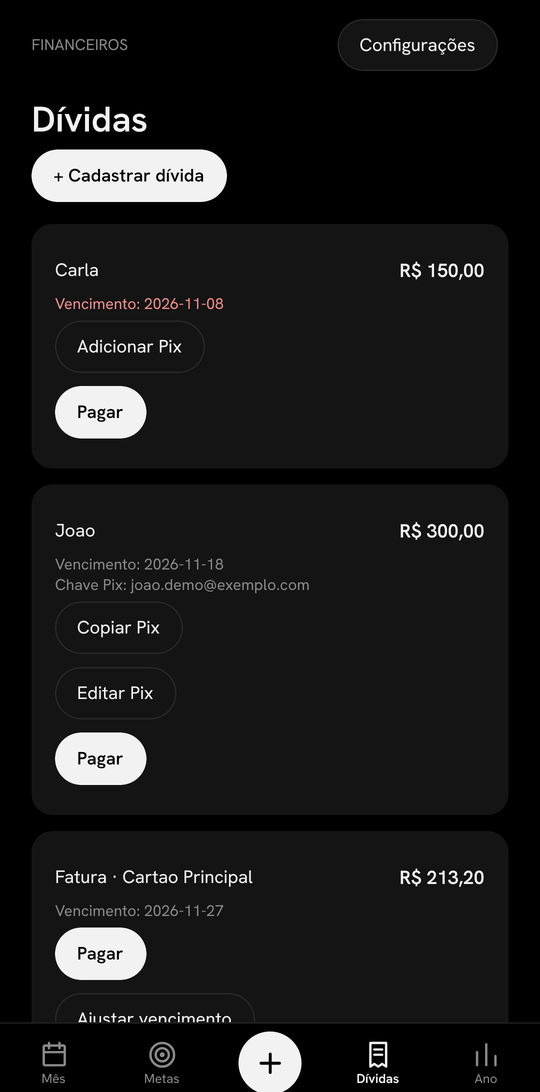
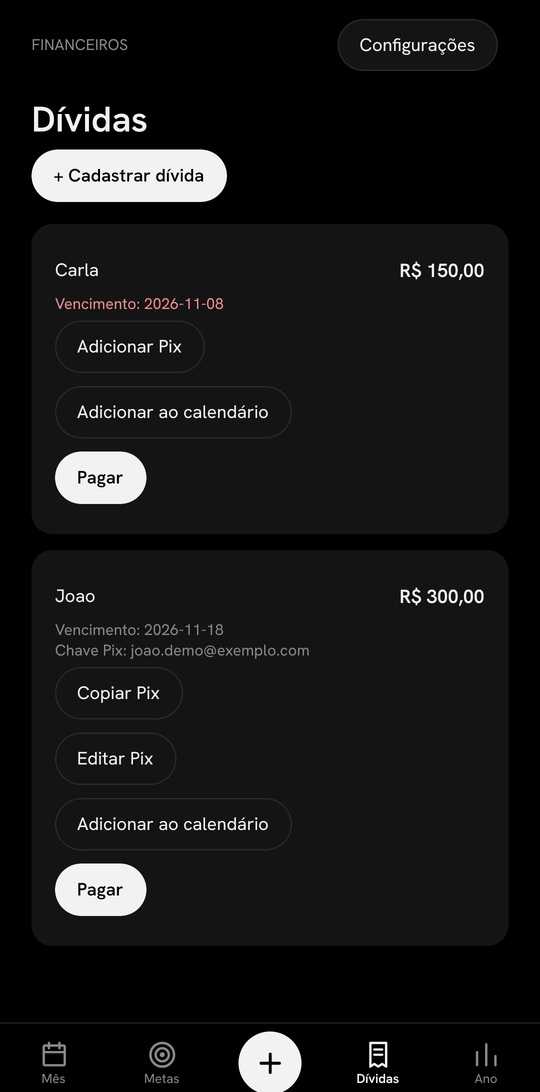
feat: confirmar lembretes no primeiro acesso e adicionar vencimentos ao calendário
- Tela "Receber lembretes?" no primeiro acesso, com a escolha guardada
- Botão "Adicionar ao calendário" em dívidas e faturas, usando a tela de novo
  evento do sistema (sem permissão de agenda; permissões bloqueadas no Android)
- Testes do evento de calendário e novos prints no README

diff --git a/src/FinanceApp.tsx b/src/FinanceApp.tsx
@@ -28,6 +28,8 @@ import SecurityScreen from './SecurityScreen';
 import {parseMoney} from './onboarding';
 import {budgetMargin,freeToSpend} from './finance';
 import CardSetup from './CardSetup';
+import NotificationsPromptScreen from './NotificationsPromptScreen';
+import {addDueToCalendar} from './calendar';
 import LegacyCreditScreen, {type LegacyCredit} from './LegacyCreditScreen';
 import {setStatementDue,type CardRow} from './cards';
 import {cashSpend,goalExtraSql,goalSpentSql} from './accounting';
@@ -54,7 +56,7 @@ function Row({name,value,color=fg,flat=false}:{name:string;value:string;color?:s
 export default function FinanceApp({db}:{db:SQLiteDatabase}) {
   const [securityMode,setSecurityMode]=useState(false); const [accessibilityMode,setAccessibilityMode]=useState(false); const [investmentsMode,setInvestmentsMode]=useState(false); const [infoMode,setInfoMode]=useState<'guia'|'sobre'|null>(null); const [recurringMode,setRecurringMode]=useState(false); const [goalMovement,setGoalMovement]=useState<Goal|null>(null); const [goalMode,setGoalMode]=useState(false); const [settingsMode,setSettingsMode]=useState(false); const [insightsMode,setInsightsMode]=useState(false); const [cashMode,setCashMode]=useState(false); const [commitmentsMode,setCommitmentsMode]=useState(false); const [editingTransaction,setEditingTransaction]=useState<Entry|null>(null);
   const [statementMonth,setStatementMonth]=useState<string|null>(null);
-  const [cards,setCards]=useState<CardRow[]>([]); const [cardSetup,setCardSetup]=useState<boolean|undefined>(); const [editingCards,setEditingCards]=useState(false); const [selectedCard,setSelectedCard]=useState<number|null>(null); const [installments,setInstallments]=useState('1');
+  const [cards,setCards]=useState<CardRow[]>([]); const [cardSetup,setCardSetup]=useState<boolean|undefined>(); const [editingCards,setEditingCards]=useState(false); const [selectedCard,setSelectedCard]=useState<number|null>(null); const [installments,setInstallments]=useState('1'); const [notifAsked,setNotifAsked]=useState<boolean|undefined>();
   const [legacy,setLegacy]=useState<LegacyCredit[]>([]); const [deferLegacy,setDeferLegacy]=useState(false); const [rolloverBlocked,setRolloverBlocked]=useState(false); const [spend,setSpend]=useState({direct:0,bills:0,billGoals:0});
   const [editingPix,setEditingPix]=useState<Debt|null>(null); const [editingPixValue,setEditingPixValue]=useState(''); const [editingDue,setEditingDue]=useState<Debt|null>(null); const [dueInput,setDueInput]=useState('');
   const [profileName,setProfileName]=useState<string|null|undefined>(undefined); const [editingName,setEditingName]=useState(false);
@@ -75,6 +77,7 @@ export default function FinanceApp({db}:{db:SQLiteDatabase}) {
       const profile=await db.getFirstAsync<{value:string}>("SELECT value FROM settings WHERE key='user_name'");setProfileName(profile?.value.trim()||null);
       const cardRows=await db.getAllAsync<CardRow>('SELECT * FROM cards WHERE active=1 ORDER BY id');setCards(cardRows);
       const cardFlag=await db.getFirstAsync<{value:string}>("SELECT value FROM settings WHERE key='card_setup_complete'");setCardSetup(cardFlag?.value==='1');
+      const asked=await db.getFirstAsync<{value:string}>("SELECT value FROM settings WHERE key='notifications_prompted'");setNotifAsked(!!asked||(await Notifications.getPermissionsAsync()).granted);
       const unresolved=await db.getAllAsync<LegacyCredit>("SELECT t.id,t.name,t.amount,t.date FROM transactions t WHERE t.type='expense' AND t.payment='Crédito' AND NOT EXISTS(SELECT 1 FROM credit_charges c WHERE c.transaction_id=t.id) ORDER BY t.date,t.id");setLegacy(unresolved);
       if(cardFlag?.value!=='1' || (unresolved.length>0&&!deferLegacy)) return;
       let fallback=current;
@@ -132,8 +135,9 @@ export default function FinanceApp({db}:{db:SQLiteDatabase}) {
   function pay(debt:Debt) {reset();setPaying(debt);setAmount((debt.amount/100).toFixed(2).replace('.',','));setName(debt.name);setMode('gasto');setTab('+');}
   const fixed=entries.filter(e=>e.type==='fixed').reduce((s,e)=>s+e.amount,0); const planned=goals.reduce((s,g)=>s+g.allocated,0); const extra=entries.filter(e=>e.type==='extra').reduce((s,e)=>s+e.amount,0); const expenses=entries.filter(e=>e.type!=='extra'&&!e.is_bill_payment).reduce((s,e)=>s+e.amount,0); const freeExtra=entries.filter(e=>e.type==='extra'&&e.envelope_id===null).reduce((sum,e)=>sum+e.amount,0); const balance=budgetMargin(month?.income??0,fixed,planned,freeExtra); const overdue=debts.filter(d=>d.due<localDate()); const billDue=debts.filter(d=>d.statement_id!==null&&d.due.slice(0,7)===month?.id).reduce((sum,d)=>sum+d.amount,0); const deficit=goals.reduce((sum,g)=>sum+Math.max(0,g.spent-g.allocated-g.carried-g.extra),0); const available=freeToSpend(month?.income??0,fixed,planned,freeExtra,spend.direct,spend.bills,spend.billGoals,deficit);
   const days=Array.from({length:31},(_,i)=>entries.filter(e=>e.type!=='extra'&&!e.is_bill_payment&&Number(e.date.slice(8))===i+1).reduce((s,e)=>s+e.amount,0)); const extraDays=Array.from({length:31},(_,i)=>entries.filter(e=>e.type==='extra'&&Number(e.date.slice(8))===i+1).reduce((s,e)=>s+e.amount,0)); let total=0,extraTotal=0; const cumulative=days.map(v=>total+=v),extraCumulative=extraDays.map(v=>extraTotal+=v); const maximum=Math.max(1,...cumulative,...extraCumulative); const points=cumulative.map((v,i)=>`${i*10},${95-(v/maximum)*85}`).join(' '); const extraPoints=extraCumulative.map((v,i)=>`${i*10},${95-(v/maximum)*85}`).join(' ');
-  if (profileName===undefined || cardSetup===undefined) return <View style={{flex:1,backgroundColor:'#000'}}/>;
+  if (profileName===undefined || cardSetup===undefined || notifAsked===undefined) return <View style={{flex:1,backgroundColor:'#000'}}/>;
   if (profileName===null || editingName) return <NameScreen db={db} initialName={profileName??undefined} onComplete={value=>{setProfileName(value);setEditingName(false)}} onCancel={profileName?()=>setEditingName(false):undefined}/>;
+  if (!notifAsked) return <NotificationsPromptScreen db={db} onDone={()=>{setNotifAsked(true);void refresh()}}/>;
   if (editingCards || !cardSetup) return <CardSetup db={db} existing={editingCards?cards:undefined} onComplete={()=>{setCardSetup(true);setEditingCards(false);void refresh()}} onCancel={editingCards?()=>setEditingCards(false):undefined}/>;
   if (legacy.length>0 && !deferLegacy) return <LegacyCreditScreen db={db} items={legacy} cards={cards} onChanged={()=>void refresh()} onCards={()=>setEditingCards(true)} onLater={()=>setDeferLegacy(true)}/>;
   if (backupMode) return <BackupScreen db={db} exportOnly={backupFromClose} onClose={()=>{setBackupMode(false);setBackupFromClose(false)}} onRestored={()=>{setBackupMode(false);setBackupFromClose(false);void refresh()}}/>;
@@ -161,7 +165,7 @@ export default function FinanceApp({db}:{db:SQLiteDatabase}) {
     {legacy.length>0&&<View><Label color={red}>Revise compras antigas no crédito para calcular os valores corretamente{rolloverBlocked?' e concluir a virada do mês':''}.</Label><Button title="Revisar compras" onPress={()=>setDeferLegacy(false)}/></View>}
     {tab==='Mês' && <><Label size={30}>{profileName?`Olá, ${profileName}`:'Seu mês'}</Label><Button title="Editar salário deste mês" onPress={()=>{if(month?.closed_at){Alert.alert('Este mês está fechado.');return;} setSalary(((month?.income??0)/100).toFixed(2).replace('.',','));setSalaryMode(true)}}/><Label color={muted}>{month?.id??'Carregando…'}</Label><ScrollView horizontal showsHorizontalScrollIndicator={false}>{monthOptions.map(item=><Button key={item} title={item} selected={item===month?.id} onPress={()=>setSelectedMonth(item)}/>)}</ScrollView>{overdue.length>0&&<View style={{marginTop:20}}><Label color={red}>{overdue.length} dívida(s) em atraso</Label></View>}<View style={{marginTop:35}}><Label color={muted} size={13}>MARGEM PARA IMPREVISTOS</Label><Label color={balance<0?red:green} size={36}>{cash(balance)}</Label></View><Svg width="100%" height={110} viewBox="0 0 300 110" accessibilityLabel="Gráfico de gastos acumulados no mês"><Polyline points={points} fill="none" stroke={fg} strokeWidth="2" strokeLinejoin="round" strokeLinecap="round"/>{extra>0&&<Polyline points={extraPoints} fill="none" stroke={green} strokeWidth="2" strokeLinejoin="round" strokeLinecap="round"/>}</Svg><Label color={muted} size={12}>Gastos acumulados no mês{extra>0?' · linha verde: entradas extras':''}</Label><Row name="Salário previsto" value={cash(month?.income??0)}/><Row name="Salário recebido" value={actualIncome===null?'Não informado':cash(actualIncome)}/><Row name="Despesas fixas" value={cash(fixed)}/><Row name="Caixinhas" value={cash(planned)}/><Row name="Compras e fixas previstas" value={cash(expenses)}/><Row name="Fatura a pagar neste mês" value={cash(billDue)}/><Button title="Contas e salário" onPress={()=>setCommitmentsMode(true)}/><Button title="Despesas recorrentes" onPress={()=>setRecurringMode(true)}/><Button title="Saldo e compromissos" onPress={()=>setCashMode(true)}/><Button title="Análise financeira" onPress={()=>setInsightsMode(true)}/><Row name="Orçamento livre estimado" value={legacy.length?'—':cash(available)}/><Label color={muted} size={13}>Estimativa do plano mensal; não é saldo bancário e não desconta faturas ou dívidas ainda não pagas.</Label><Row name="Entradas extras" value={cash(extra)} color={green}/><Button title={month?.closed_at?'Mês fechado':'Fechar mês'} onPress={()=>{if(!month||month.closed_at)return;Alert.alert('Fechar mês?','Os lançamentos deste mês ficarão somente para leitura.',[{text:'Cancelar',style:'cancel'},{text:'Fechar',onPress:()=>{void closeMonth(db,month.id,localDate()).then(refresh).catch(error=>Alert.alert('Não foi possível fechar',error.message));}}])}}/><View style={{marginTop:25}}><Label size={21}>Lançamentos</Label><Button title="Compartilhar extrato" onPress={()=>{if(month)setStatementMonth(month.id)}}/></View>{entries.map(e=><Pressable key={e.id} accessibilityRole="button" onPress={()=>{if(month?.closed_at){Alert.alert('Mês fechado','Este lançamento pertence a um mês somente para leitura.');return;}if(e.is_bill_payment){Alert.alert('Pagamento vinculado','Este lançamento exige uma correção específica.');return;}setEditingTransaction(e)}}><Row name={`${e.is_bill_payment?'Pagamento · ':''}${e.name||'Entrada extra'}${e.payment==='Crédito'?' · Crédito':''} · ${e.date}`} value={`${e.type==='extra'?'+':'−'} ${cash(e.amount)}`} color={e.type==='extra'?green:fg}/></Pressable> )}</>}
     {tab==='Metas' && <><Label size={30}>Metas</Label><Label color={muted}>Acompanhamento das suas caixinhas</Label><Button title="Investimentos e bens" onPress={()=>setInvestmentsMode(true)}/><Button primary title="+ Cadastrar meta" onPress={()=>{if(!month||month.closed_at){Alert.alert('Selecione um mês aberto.');return;}setGoalMode(true)}}/>{goals.length===0&&<View style={{marginTop:25}}><Label color={muted}>Nenhuma meta cadastrada.</Label></View>}{goals.map(g=>{const saved=g.allocated+g.carried+g.extra-g.spent;return <View key={g.id} style={{backgroundColor:surface,borderRadius:16,padding:18,marginTop:12}}><Label size={19}>{g.name}</Label><View style={{height:8}}/><Label color={muted}>Planejado: {cash(saved)}</Label><Label>{g.actual===null?'Saldo real não informado':`Registrado: ${cash(g.actual)}${g.target!==null?` de ${cash(g.target)}`:''}`}</Label>{g.actual!==null&&g.target!==null&&g.actual<g.target&&g.allocated>0&&<Label color={muted} size={13}>Estimativa: {Math.ceil((g.target-g.actual)/g.allocated)} mês(es) com os aportes planejados.</Label>}<Button title="Movimentar meta" onPress={()=>{if(!month||month.closed_at||month.id!==localDate().slice(0,7)){Alert.alert('Selecione o mês atual aberto.');return;}setGoalMovement(g)}}/>{!!g.due_date&&<Label color={muted} size={13}>Data final: {g.due_date.split('-').reverse().join('/')}</Label>}{g.target!==null&&g.actual!==null&&g.actual>=g.target&&<View style={{marginTop:12}}><Label>Meta concluída.</Label>{g.name.toLocaleLowerCase('pt-BR').includes('monitor')&&goals.some(item=>item.name.toLocaleLowerCase('pt-BR').includes('reserva'))&&<Label color={muted} size={13}>Sugestão: considere redirecionar {cash(g.allocated)} por mês para a reserva no planejamento futuro.</Label>}</View>}{g.target!==null&&g.actual!==null&&<View accessibilityLabel={`Progresso da meta ${g.name}`} style={{height:6,borderRadius:3,overflow:'hidden',backgroundColor:'#2a2a2a',marginTop:14}}><View style={{height:6,borderRadius:3,backgroundColor:green,width:`${Math.max(0,Math.min(100,g.actual/g.target*100))}%`}}/></View>}</View>})}</>}
-    {tab==='Devo' && <><Label size={30}>Dívidas</Label><Button primary title="+ Cadastrar dívida" onPress={()=>{reset();setDate('');setMode('divida');setTab('+')}}/>{debts.length===0&&<Label color={muted}>Nenhuma dívida em aberto.</Label>}{debts.map(d=><View key={d.id} style={{backgroundColor:surface,borderRadius:16,padding:18,marginTop:12}}><Row flat name={d.name} value={cash(d.amount)}/><Label color={d.due<localDate()?red:muted} size={13}>Vencimento: {d.due}</Label>{!!d.pix_key&&<View><Label color={muted} size={13}>Chave Pix: {d.pix_key}</Label><Button title="Copiar Pix" onPress={()=>{void Clipboard.setStringAsync(d.pix_key!).then(()=>Alert.alert('Chave Pix copiada')).catch(()=>Alert.alert('Não foi possível copiar'))}}/></View>}{d.statement_id===null&&<Button title={d.pix_key?"Editar Pix":"Adicionar Pix"} onPress={()=>{setEditingPix(d);setEditingPixValue(d.pix_key??'')}}/>}<Button primary title="Pagar" onPress={()=>pay(d)}/>{d.statement_id!==null&&<Button title="Ajustar vencimento" onPress={()=>{setEditingDue(d);setDueInput(d.due)}}/>}</View>)}</>}
+    {tab==='Devo' && <><Label size={30}>Dívidas</Label><Button primary title="+ Cadastrar dívida" onPress={()=>{reset();setDate('');setMode('divida');setTab('+')}}/>{debts.length===0&&<Label color={muted}>Nenhuma dívida em aberto.</Label>}{debts.map(d=><View key={d.id} style={{backgroundColor:surface,borderRadius:16,padding:18,marginTop:12}}><Row flat name={d.name} value={cash(d.amount)}/><Label color={d.due<localDate()?red:muted} size={13}>Vencimento: {d.due}</Label>{!!d.pix_key&&<View><Label color={muted} size={13}>Chave Pix: {d.pix_key}</Label><Button title="Copiar Pix" onPress={()=>{void Clipboard.setStringAsync(d.pix_key!).then(()=>Alert.alert('Chave Pix copiada')).catch(()=>Alert.alert('Não foi possível copiar'))}}/></View>}{d.statement_id===null&&<Button title={d.pix_key?"Editar Pix":"Adicionar Pix"} onPress={()=>{setEditingPix(d);setEditingPixValue(d.pix_key??'')}}/>}<Button title="Adicionar ao calendário" onPress={()=>{void addDueToCalendar({name:d.name,amount:d.amount,due:d.due,noticeDays:d.notice_days},showDetails).catch(()=>Alert.alert('Não foi possível abrir o calendário','Confira se há um aplicativo de calendário instalado.'))}}/><Button primary title="Pagar" onPress={()=>pay(d)}/>{d.statement_id!==null&&<Button title="Ajustar vencimento" onPress={()=>{setEditingDue(d);setDueInput(d.due)}}/>}</View>)}</>}
     {tab==='Ano' && <><Label size={30}>Ano</Label><ActualYear db={db} year={Number(localDate().slice(0,4))}/>{currentYear&&<AnnualSummary year={Number(localDate().slice(0,4))} data={currentYear}/>}{annual.length===0&&<View style={{marginTop:24}}><Label color={muted}>Os resumos de anos anteriores serão exibidos aqui.</Label></View>}{annual.map(a=><AnnualSummary key={a.year} year={a.year} data={a.data}/>)}</>}
     {tab==='+' && <><Label size={30}>{paying?'Pagar dívida':'Novo lançamento'}</Label>{!paying&&<View style={{flexDirection:'row',flexWrap:'wrap'}}><Button title="Gasto" selected={mode==='gasto'} onPress={()=>{reset();setMode('gasto')}}/><Button title="Entrada extra" selected={mode==='entrada'} onPress={()=>{reset();setMode('entrada')}}/><Button title="Dívida" selected={mode==='divida'} onPress={()=>{reset();setDate('');setMode('divida')}}/></View>}{paying?.statement_id!=null&&<Label color={muted} size={13}>Você pode informar um valor menor para registrar pagamento parcial.</Label>}<Field label="Valor (R$)" value={amount} onChangeText={setAmount} number/><Field label={mode==='divida'?'Vencimento (AAAA-MM-DD)':'Data (AAAA-MM-DD)'} value={date} onChangeText={setDate}/>{mode!=='entrada'&&<Field label={mode==='divida'?'Nome da pessoa':'Local'} value={name} onChangeText={setName}/>} {mode==='gasto'&&<>{places.length>0&&!paying&&<><Label color={muted} size={13}>Locais usados</Label><View style={{flexDirection:'row',flexWrap:'wrap'}}>{places.map(place=><Button key={place} title={place} onPress={()=>setName(place)}/>)}</View></>}{paying?.statement_id==null&&<><Label color={muted} size={13}>Caixinha usada (opcional)</Label><View style={{flexDirection:'row',flexWrap:'wrap'}}><Button title='Livre' selected={destination===null} onPress={()=>setDestination(null)}/>{goals.map(g=><Button key={g.id} title={g.name} selected={destination===g.id} onPress={()=>setDestination(g.id)}/>)}</View></>}<Label color={muted} size={13}>Forma de pagamento</Label><View style={{flexDirection:'row',flexWrap:'wrap'}}>{['Pix','Débito','Crédito','Dinheiro','Vale'].filter(p=>paying?.statement_id==null||p!=='Crédito').map(p=><Button key={p} title={p} selected={payment===p} onPress={()=>setPayment(p)}/>)}</View>{payment==='Crédito'&&<><Field label="Número de parcelas (1 a 36)" value={installments} onChangeText={setInstallments} number/><Label color={muted} size={13}>Cada parcela será considerada na caixinha ao pagar sua fatura.</Label><Label color={muted} size={13}>Escolha o cartão</Label><View style={{flexDirection:'row',flexWrap:'wrap'}}>{cards.map(c=><Button key={c.id} title={c.name} selected={selectedCard===c.id} onPress={()=>setSelectedCard(c.id)}/>)}</View>{cards.length===0&&<Button title="Configurar cartão" onPress={()=>setEditingCards(true)}/>}</>}<Field label="Categoria" value={category} onChangeText={setCategory}/></>}{mode==='entrada'&&<><Label color={muted} size={13}>Destino</Label><View style={{flexDirection:'row',flexWrap:'wrap'}}><Button title="Livre" selected={destinationChosen&&destination===null} onPress={()=>{setDestination(null);setDestinationChosen(true)}}/>{goals.map(g=><Button key={g.id} title={g.name} selected={destinationChosen&&destination===g.id} onPress={()=>{setDestination(g.id);setDestinationChosen(true)}}/>)}</View></>}{mode==='divida'&&<><Field label="Chave Pix da pessoa (opcional)" value={pixKey} onChangeText={setPixKey}/><Label color={muted} size={13}>Avisar com antecedência</Label><View style={{flexDirection:'row',flexWrap:'wrap'}}>{[0,1,3,7].map(n=><Button key={n} title={n===0?'No dia':`${n} dia(s)`} selected={notice===n} onPress={()=>setNotice(n)}/>)}</View></>}<Pressable accessibilityRole="button" disabled={saving} onPress={()=>void save()} style={{backgroundColor:fg,borderRadius:14,padding:16,alignItems:'center',marginTop:24}}><Label color="#000" bold>{saving?'Salvando…':'Salvar'}</Label></Pressable></>}
   </ScrollView></Animated.View><View style={{borderTopWidth:1,borderTopColor:line,flexDirection:'row',alignItems:'center',paddingVertical:6}}>{(['Mês','Metas','+','Devo','Ano'] as Tab[]).map(t=>{const on=tab===t,c=on?fg:muted;const go=()=>{if(t==='+'){reset();setMode('gasto')}setTab(t)};if(t==='+')return <Pressable key={t} accessibilityRole="button" accessibilityLabel="Novo lançamento" accessibilityState={{selected:on}} onPress={go} style={{flex:1,alignItems:'center'}}><View style={{width:48,height:48,borderRadius:24,backgroundColor:on?green:fg,alignItems:'center',justifyContent:'center'}}><Svg width={24} height={24} viewBox="0 0 24 24"><Path stroke="#000" strokeWidth="2.2" strokeLinecap="round" d="M12 5v14M5 12h14"/></Svg></View></Pressable>;return <Pressable key={t} accessibilityRole="button" accessibilityState={{selected:on}} onPress={go} style={{flex:1,alignItems:'center',paddingVertical:4}}><Svg width={24} height={24} viewBox="0 0 24 24" fill="none" strokeWidth="1.8" strokeLinecap="round" strokeLinejoin="round">{ICONS[t](c)}</Svg><Label color={c} size={11} bold={on}>{t==='Devo'?'Dívidas':t}</Label></Pressable>})}</View></View>;

diff --git a/src/NotificationsPromptScreen.tsx b/src/NotificationsPromptScreen.tsx
@@ -1,0 +1,40 @@
+import React,{useState} from 'react';
+import {Alert} from 'react-native';
+import Svg from 'react-native-svg';
+import * as Notifications from 'expo-notifications';
+import type {SQLiteDatabase} from 'expo-sqlite';
+import {Path,Pressable,Text,View} from './ui';
+import {prepareNotificationChannel} from './notifications';
+
+const FONT='HankenGrotesk_400Regular',BOLD='HankenGrotesk_600SemiBold';
+
+// Pergunta uma vez, no primeiro acesso, se a pessoa quer lembretes. A resposta fica em settings.
+export default function NotificationsPromptScreen({db,onDone}:{db:SQLiteDatabase;onDone:()=>void}) {
+  const [busy,setBusy]=useState(false);
+  async function answer(allow:boolean) {
+    if (busy) return;
+    setBusy(true);
+    try {
+      let result='declined';
+      if (allow) {
+        try {await prepareNotificationChannel();result=(await Notifications.requestPermissionsAsync()).granted?'granted':'denied';}
+        catch {result='unavailable';}
+      }
+      await db.runAsync("INSERT INTO settings(key,value) VALUES('notifications_prompted',?) ON CONFLICT(key) DO UPDATE SET value=excluded.value",result);
+      onDone();
+    } catch(error) {Alert.alert('Não foi possível salvar',error instanceof Error?error.message:'Tente novamente.');}
+    finally {setBusy(false);}
+  }
+  return <View style={{flex:1,backgroundColor:'#000',justifyContent:'center',paddingHorizontal:28}}>
+    <View style={{alignItems:'center',marginBottom:34}}>
+      <View style={{width:76,height:76,borderRadius:38,backgroundColor:'#141414',borderWidth:1,borderColor:'#2a2a2a',alignItems:'center',justifyContent:'center',marginBottom:20}}>
+        <Svg width={34} height={34} viewBox="0 0 24 24" fill="none"><Path stroke="#f2f2f2" strokeWidth="1.8" strokeLinecap="round" strokeLinejoin="round" d="M6 17V11a6 6 0 0 1 12 0v6l1.5 2h-15zM10 21h4"/></Svg>
+      </View>
+      <Text style={{color:'#f2f2f2',fontFamily:BOLD,fontSize:28,textAlign:'center'}}>Receber lembretes?</Text>
+      <Text style={{color:'#8a8a8a',fontFamily:FONT,fontSize:15,marginTop:12,textAlign:'center',lineHeight:22}}>O Financeiros pode avisar quando uma dívida ou fatura estiver perto de vencer, sobre prazos de metas e lembretes de backup. Os avisos são criados neste aparelho; nenhuma informação sai dele.</Text>
+    </View>
+    <Pressable accessibilityRole="button" disabled={busy} onPress={()=>void answer(true)} style={{borderRadius:14,paddingVertical:16,alignItems:'center',backgroundColor:'#f2f2f2'}}><Text style={{color:'#000',fontFamily:BOLD,fontSize:16}}>Permitir lembretes</Text></Pressable>
+    <Pressable accessibilityRole="button" disabled={busy} onPress={()=>void answer(false)} style={{borderRadius:14,paddingVertical:16,alignItems:'center',marginTop:10,backgroundColor:'#141414',borderWidth:1,borderColor:'#2a2a2a'}}><Text style={{color:'#f2f2f2',fontFamily:FONT,fontSize:16}}>Agora não</Text></Pressable>
+    <Text style={{color:'#8a8a8a',fontFamily:FONT,fontSize:13,marginTop:18,textAlign:'center'}}>Você pode mudar isso depois nas configurações do aparelho.</Text>
+  </View>;
+}

diff --git a/src/calendar.ts b/src/calendar.ts
@@ -1,0 +1,21 @@
+export type DueItem = {name:string; amount:number; due:string; noticeDays:number};
+
+// Monta o evento de vencimento. O nome sempre vai (a pessoa pediu este evento); o valor só se ela permitiu detalhes.
+export function dueEvent(item:DueItem, details:boolean) {
+  if (!/^\d{4}-\d{2}-\d{2}$/.test(item.due)) throw new Error('Data de vencimento inválida.');
+  const [year,month,day] = item.due.split('-').map(Number);
+  const alarms = item.noticeDays>0 ? [{relativeOffset:-item.noticeDays*1440},{relativeOffset:0}] : [{relativeOffset:0}];
+  return {
+    title: `Pagar: ${item.name}`,
+    notes: details ? `Valor: R$ ${(item.amount/100).toFixed(2).replace('.',',')}` : undefined,
+    startDate: new Date(year,month-1,day,9,0,0),
+    endDate: new Date(year,month-1,day,9,30,0),
+    alarms,
+  };
+}
+
+// Abre a tela de novo evento do próprio celular; não pede permissão de agenda.
+export async function addDueToCalendar(item:DueItem, details:boolean) {
+  const {createEventInCalendarAsync} = await import('expo-calendar/legacy');
+  return createEventInCalendarAsync(dueEvent(item,details));
+}

diff --git a/tests/calendar.test.ts b/tests/calendar.test.ts
@@ -1,0 +1,23 @@
+import test from 'node:test';
+import assert from 'node:assert/strict';
+import {dueEvent} from '../src/calendar.ts';
+
+test('evento de vencimento com detalhes e aviso antecipado', () => {
+  const e = dueEvent({name:'Joao',amount:30000,due:'2026-11-18',noticeDays:3}, true);
+  assert.equal(e.title, 'Pagar: Joao');
+  assert.equal(e.notes, 'Valor: R$ 300,00');
+  assert.equal(e.startDate.getDate(), 18);
+  assert.equal(e.startDate.getHours(), 9);
+  assert.deepEqual(e.alarms, [{relativeOffset:-4320},{relativeOffset:0}]);
+});
+
+test('sem detalhes o valor não vai para o calendário', () => {
+  const e = dueEvent({name:'Joao',amount:30000,due:'2026-11-18',noticeDays:0}, false);
+  assert.equal(e.title, 'Pagar: Joao');
+  assert.equal(e.notes, undefined);
+  assert.deepEqual(e.alarms, [{relativeOffset:0}]);
+});
+
+test('data inválida é recusada', () => {
+  assert.throws(() => dueEvent({name:'x',amount:1,due:'18/11/2026',noticeDays:0}, true));
+});

diff --git a/README.md b/README.md
@@ -18,8 +18,11 @@ Capturas feitas em um celular Android, com dados fictícios.
   </tr>
   <tr>
     <td align="center"><img src="docs/screenshots/04-metas.png" width="250" alt="Metas e caixinhas com progresso"><br><sub>Metas e caixinhas</sub></td>
-    <td align="center"><img src="docs/screenshots/05-dividas.png" width="250" alt="Dívidas e faturas"><br><sub>Dívidas e faturas</sub></td>
+    <td align="center"><img src="docs/screenshots/05-dividas.png" width="250" alt="Dívidas com botão para adicionar ao calendário"><br><sub>Dívidas e calendário</sub></td>
     <td align="center"><img src="docs/screenshots/06-novo-lancamento.png" width="250" alt="Formulário de novo lançamento"><br><sub>Novo lançamento</sub></td>
+  </tr>
+  <tr>
+    <td align="center"><img src="docs/screenshots/07-lembretes.png" width="250" alt="Pergunta sobre receber lembretes no primeiro acesso"><br><sub>Lembretes (primeiro acesso)</sub></td>
   </tr>
 </table>
 
@@ -36,7 +39,8 @@ No iPhone, uma alternativa gratuita é seguir a documentação do [AltStore Clas
 
 - Registro de ganhos, gastos, contas e dívidas, com planejamento mensal.
 - Metas e caixinhas, acompanhamento de cartões e compras parceladas.
-- Lembretes locais, análise financeira e resumo anual.
+- Lembretes locais (você escolhe no primeiro acesso se quer recebê-los), análise financeira e resumo anual.
+- Botão para adicionar o vencimento de dívidas e faturas ao calendário do celular. O app não acessa sua agenda: ele abre a tela de novo evento e você confirma.
 - PIN ou biometria para acesso e backup criptografado com senha escolhida pela pessoa.
 
 Não há sincronização bancária ou conta no aplicativo. Os lançamentos e saldos são informados manualmente. O compartilhamento de extratos e backups depende de uma ação da pessoa usuária.
